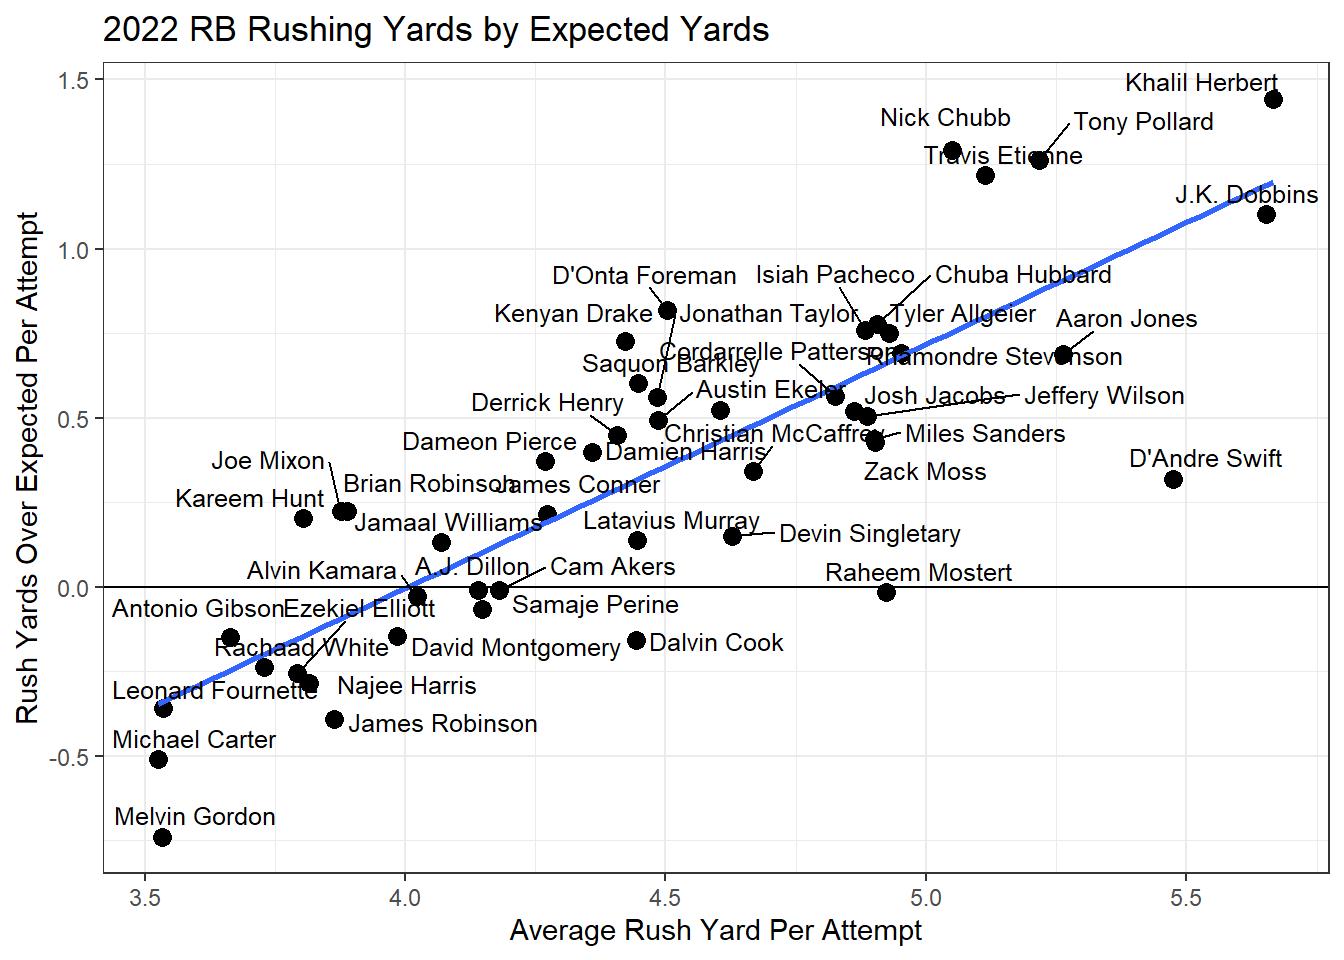
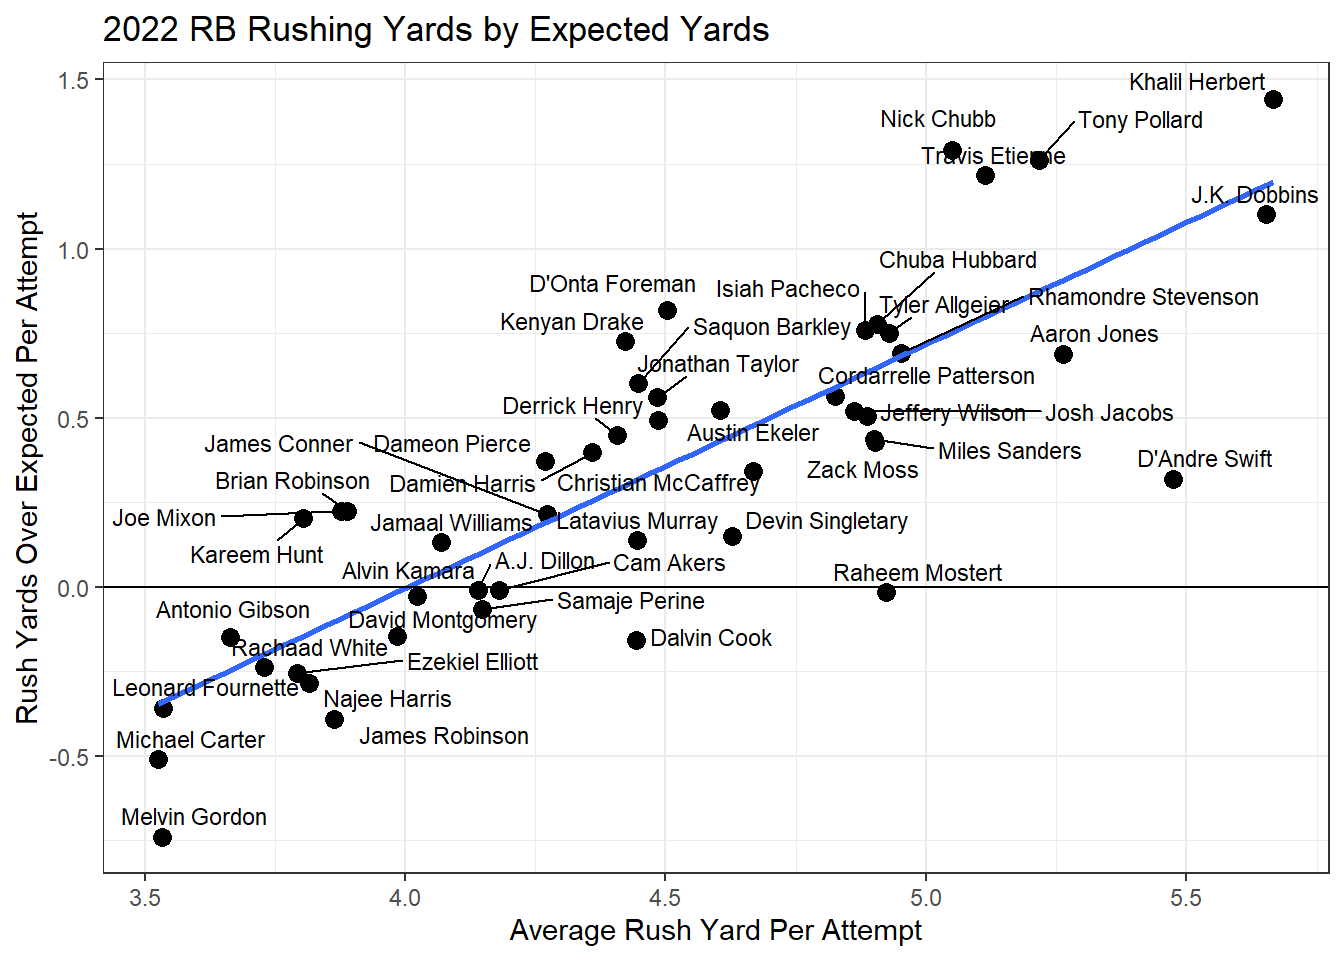
updates

diff --git a/_site/RB.html b/_site/RB.html
@@ -164,7 +164,7 @@ ul.task-list li input[type="checkbox"] {
 <p><img src="RB_files/figure-html/unnamed-chunk-5-1.png" class="img-fluid" width="672"></p>
 </div>
 <div class="cell-output cell-output-stdout">
-<pre><code>1.00s elapsed for 12390 iterations, 88 overlaps. Consider increasing 'max.time'.</code></pre>
+<pre><code>6.00s elapsed for 77230 iterations, 19 overlaps. Consider increasing 'max.time'.</code></pre>
 </div>
 </div>
 
